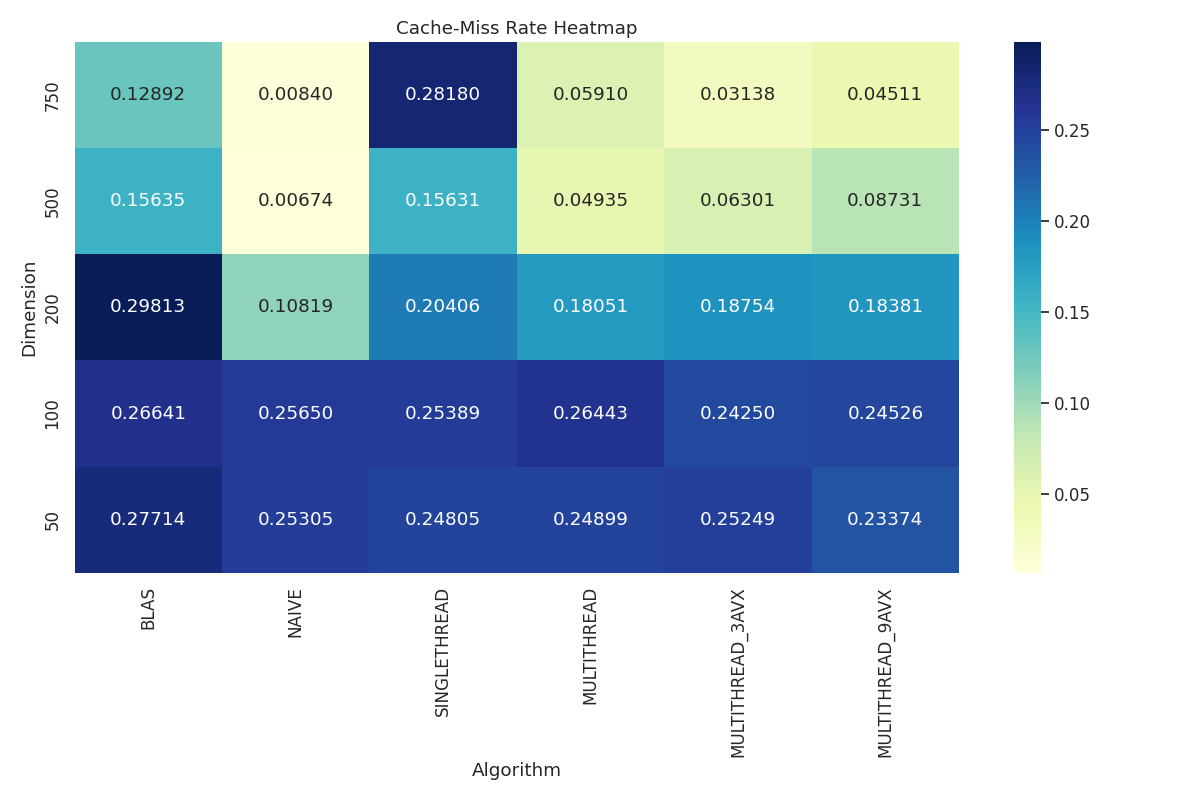
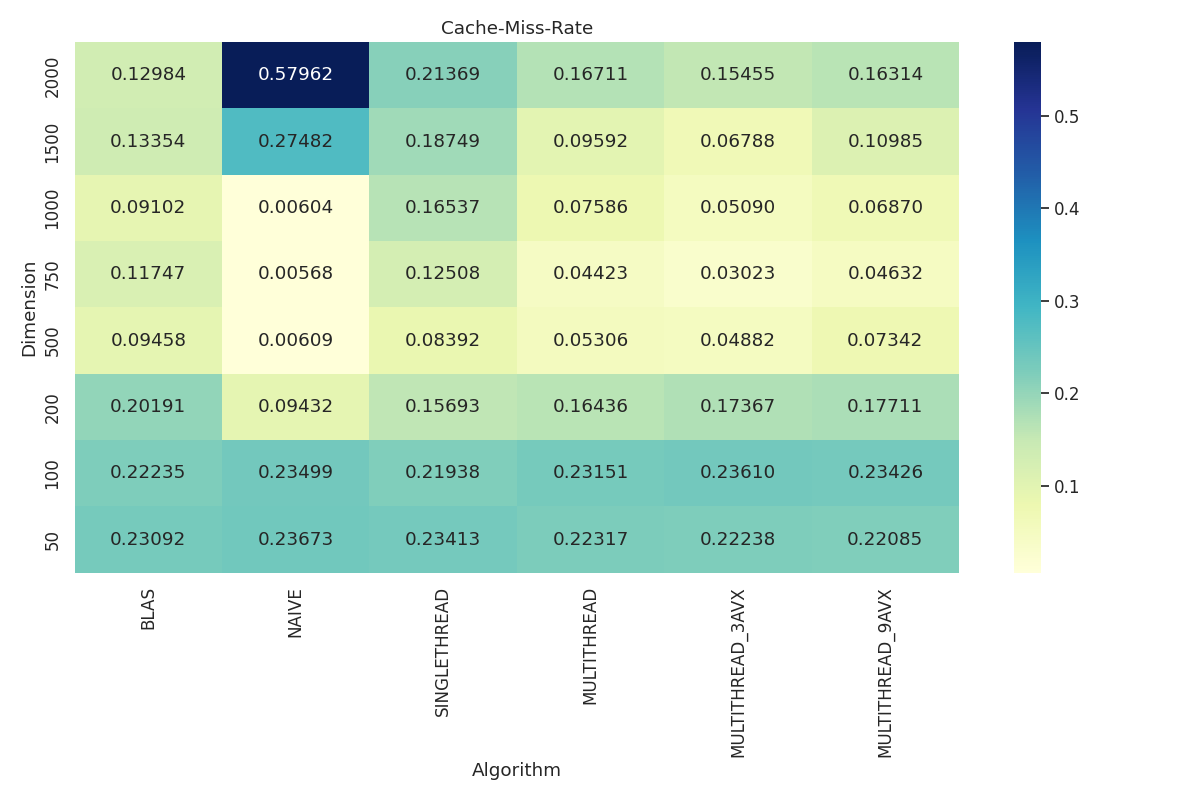
Refactored parts of plot_generator.py

diff --git a/benchmark/plot_generator.py b/benchmark/plot_generator.py
@@ -3,33 +3,33 @@ import numpy as np
 import pandas as pd
 import matplotlib.pyplot as plt
 import seaborn as sns
+from scipy import stats # Perform stat analysis
 
-def create_heatmap_cache_miss_rate(data, NUM_RUNS):
+def create_heatmap_with(x_data, y_data, heat_data, title, x_label, y_label, png_name):
 
-    # Extract data corresponding to the grid
-    algorithms = data['Algorithm'].to_numpy()
-    dimensions = data['Dimension'].to_numpy()
+    # Convert data to numpy arrays for filling heatmap
+    x_data_arr = x_data.to_numpy()
+    y_data_arr = y_data.to_numpy()
+    heat_data_arr = heat_data.to_numpy()
 
-    # Extract data corresponding to the heat intensity
-    cache_miss_rates = data['Cache-Miss-Rate'].to_numpy()
+    # Get unique x_data categories in preserved order (i.e. np.unique() sorts
+    # names in alphabetical order)
+    ordered_x_data = pd.Categorical(x_data, categories=x_data.unique(), ordered=True)
+    unique_x_data = ordered_x_data.categories
 
-    # Get unique dimensions
-    unique_dimensions = np.unique(dimensions)
-
-    # Get unique algorithms.
-    # Using pandas over np to preserve the algorithm order (np.unique() sorts in alphabetical order)
-    ordered_algorithms = pd.Categorical(data['Algorithm'], categories=data['Algorithm'].unique(), ordered=True)
-    unique_algorithms = ordered_algorithms.categories
+    # Get unique y_data categories
+    ordered_y_data = pd.Categorical(y_data, categories=y_data.unique(), ordered=True)
+    unique_y_data = ordered_y_data.categories
 
     # Initialize heatmap with NaN values
-    heatmap_array = np.full((len(unique_dimensions), len(unique_algorithms)), np.nan)
+    heatmap_array = np.full((len(unique_y_data), len(unique_x_data)), np.nan)
 
-    # Create mappings from algorithm and dimension to indices
-    algorithm_to_index = {alg: idx for idx, alg in enumerate(unique_algorithms)}
-    dimension_to_index = {dim: idx for idx, dim in enumerate(unique_dimensions)}
+    # Create mappings from x_data and y_data to indices
+    algorithm_to_index = {alg: idx for idx, alg in enumerate(unique_x_data)}
+    dimension_to_index = {dim: idx for idx, dim in enumerate(unique_y_data)}
 
     # Fill heatmap
-    for alg, dim, rate in zip(algorithms, dimensions, cache_miss_rates):
+    for alg, dim, rate in zip(x_data_arr, y_data_arr, heat_data_arr):
         row_idx = dimension_to_index[dim]
         col_idx = algorithm_to_index[alg]
         heatmap_array[row_idx, col_idx] = rate
@@ -41,9 +41,9 @@ def create_heatmap_cache_miss_rate(data, NUM_RUNS):
     sns.set_theme(style="whitegrid", font_scale=1.1)
 
     # Need to be lists of strings or sns wont plot
-    xtick_labels = list(unique_algorithms)
+    xtick_labels = list(unique_x_data)
     # Flip the dimension labels to grow upwards
-    ytick_labels = list(map(str, np.flip(unique_dimensions)))
+    ytick_labels = list(map(str, np.flip(unique_y_data)))
 
     # Create the heatmap
     plt.figure(figsize=(12, 8))
@@ -57,29 +57,58 @@ def create_heatmap_cache_miss_rate(data, NUM_RUNS):
     )
 
     # Add title and labels
-    plt.title("Cache-Miss Rate Heatmap")
-    plt.ylabel("Dimension")
-    plt.xlabel("Algorithm")
+    plt.title(title)
+    plt.xlabel(x_label)
+    plt.ylabel(y_label)
 
     plt.tight_layout()
     # Save
-    plt.savefig("cache_miss_heatmap.png")
-
+    plt.savefig(png_name)
 
 def create_bar_cpi(data, NUM_RUNS):
+
+    # Preprocessing for calculating the confidence interval
+    alpha = 1 - 0.05
+    df = NUM_RUNS - 1
+
+    t_star = stats.t.ppf(1 - alpha / 2, df=df)
+
+    # Calculate the standard error (SE) for each data point
+    data['CPI SE'] = np.sqrt(data['CPI Variance'] / NUM_RUNS)
+
+    # Calculate the margin of error (ME)
+    data['CPI ME'] = t_star * data['CPI SE']
 
     # Set the style and font figure size
     sns.set_theme(style="whitegrid", font_scale=1.1)
 
+    # Make CPI values log 10 scale
+    #data["Log CPI"] = np.log10(data["Cycles per Instruction (CPI)"])
+
     # Create the bar plot, grouping by Dimension with color for each Algorithm
     plt.figure(figsize=(12, 8))
-    sns.barplot(
+    ax = sns.barplot(
         x="Dimension",
         y="Cycles per Instruction (CPI)",
         hue="Algorithm",
         data=data,
         palette="YlGnBu",
+        # Confidence interval bar settings
+        capsize=4.6,
+        err_kws={'linewidth': 2.5},
+        errorbar=None
     )
+
+    for bar_group, alg_data in zip(ax.containers, data.groupby("Algorithm")):
+            _, group_data = alg_data
+            for bar, (_, row) in zip(bar_group, group_data.iterrows()):
+                # Get the x position and height of the bar
+                x = bar.get_x() + bar.get_width() / 2.0
+                height = bar.get_height()
+                error = row['CPI ME']
+                # Add the error bars
+                ax.errorbar(x, height, yerr=error, capsize=5, color='black', fmt='none', lw=1.5)
+
 
     # Add title and labels
     plt.title("Cycles per Instruction (CPI) by Algorithm and Dimension")
@@ -144,11 +173,23 @@ def main():
     # The number of runs used for each datapoint (row) in the data during benchmark
     NUM_RUNS = 50;
 
-    # Load data
+    # Load benchmark data
     data = pd.read_csv('benchmark_results.csv')
 
-    # Create and save heatmap
-    create_heatmap_cache_miss_rate(data, NUM_RUNS)
+    # Load block size data of state-of-the-art algorithm: MULTITHREAD_9AVX
+    block_size_data = pd.read_csv('block_size_results.csv')
+
+    # Create cache-miss-rate heatmap
+    create_heatmap_with(data['Algorithm'], data['Dimension'], data['Cache-Miss-Rate'],
+                        "Cache-Miss-Rate", "Algorithm", "Dimension", "cache_miss_heatmap.png")
+
+    # Create average execution time (seconds) heatmap
+    create_heatmap_with(data['Algorithm'], data['Dimension'], data['Average Execution Time (seconds)'],
+                        "Average Execution Time (seconds)", "Algorithm", "Dimension", "execution_time_heatmap.png")
+
+    # Create block size and execution time heatmap
+    create_heatmap_with(block_size_data['Block Size'], block_size_data['Dimension'], block_size_data['Average Execution Time (seconds)'],
+                        "Average Execution Time (seconds)", "Block Size", "Dimension", "block_size_heatmap.png")
 
     # Create and save bar diagram for CPI
     create_bar_cpi(data, NUM_RUNS)

diff --git a/benchmark/matrix_mult_benchmark.c b/benchmark/matrix_mult_benchmark.c
@@ -182,8 +182,8 @@ int is_integer(const char str[]) {
 int main(int argc, char* argv[]) {
 
     // Check for input algorithm existence
-    if (argc < 5) {
-        fprintf(stderr, "Usage: %s <Algorithm> <Dimension_Size> <Seed> <Warm-up>\n%s\n", argv[0], "Algorithm Options:\nBLAS\nNAIVE\nSINGLETHREAD\nMULTITHREAD\nMULTITHREAD_9AVX\nContent is stored in benchmark_time.txt");
+    if (argc < 6) {
+        fprintf(stderr, "Usage: %s <Algorithm> <Dimension_Size> <Seed> <Block_Size> <Warm-up>\n%s\n", argv[0], "Algorithm Options:\nBLAS\nNAIVE\nSINGLETHREAD\nMULTITHREAD\nMULTITHREAD_9AVX\nContent is stored in benchmark_time.txt");
         return 1;
     }
 
@@ -219,19 +219,21 @@ int main(int argc, char* argv[]) {
     }
     const size_t SEED = atoi(argv[3]);
 
+    const size_t INPUT_BLOCK_SIZE = atoi(argv[4]);
+
     // Check if input <Warm-up> is valid
     fflush(stdout);
-    if (is_integer(argv[4]) != 0) {
+    if (is_integer(argv[5]) != 0) {
         fprintf(stderr, "%s\n", "Error: Input <Warm-up> has to be either 1 for true or 0 for false");
         return 1;
     }
 
     // Convert input <Warm-up> to bool
-    const bool use_warm_up = atoi(argv[4]) != 0;
+    const bool use_warm_up = atoi(argv[5]) != 0;
 
     // Benchmark parameters
     const size_t WARM_UP_COUNT = 10;
-    const size_t BLOCK_SIZE = 128;
+    const size_t BLOCK_SIZE = INPUT_BLOCK_SIZE;
     const size_t NUM_THREADS = 16;
     const char filename[] = "benchmark_time.txt";
 
